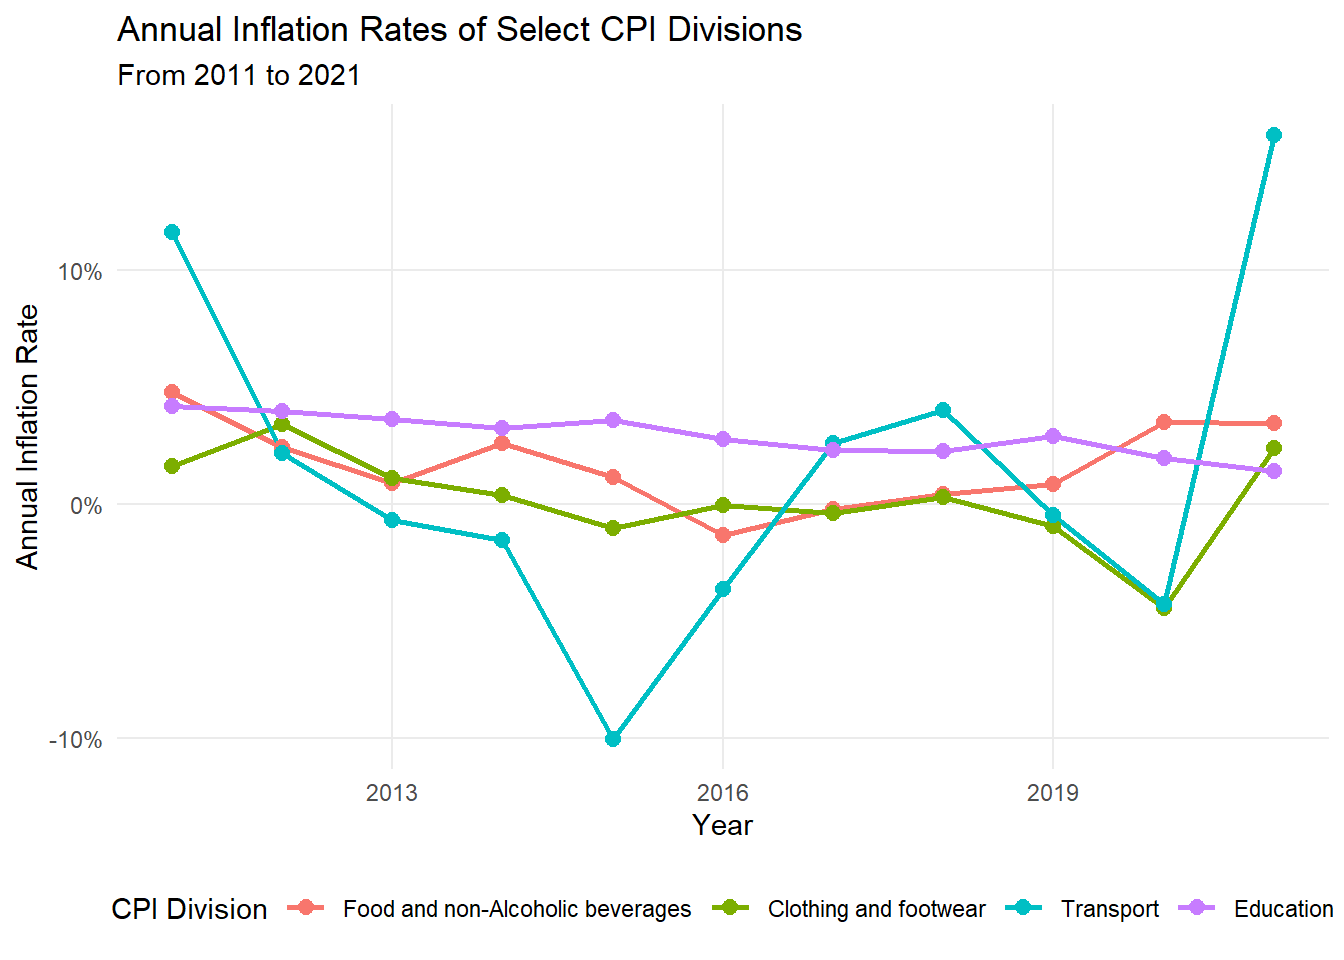
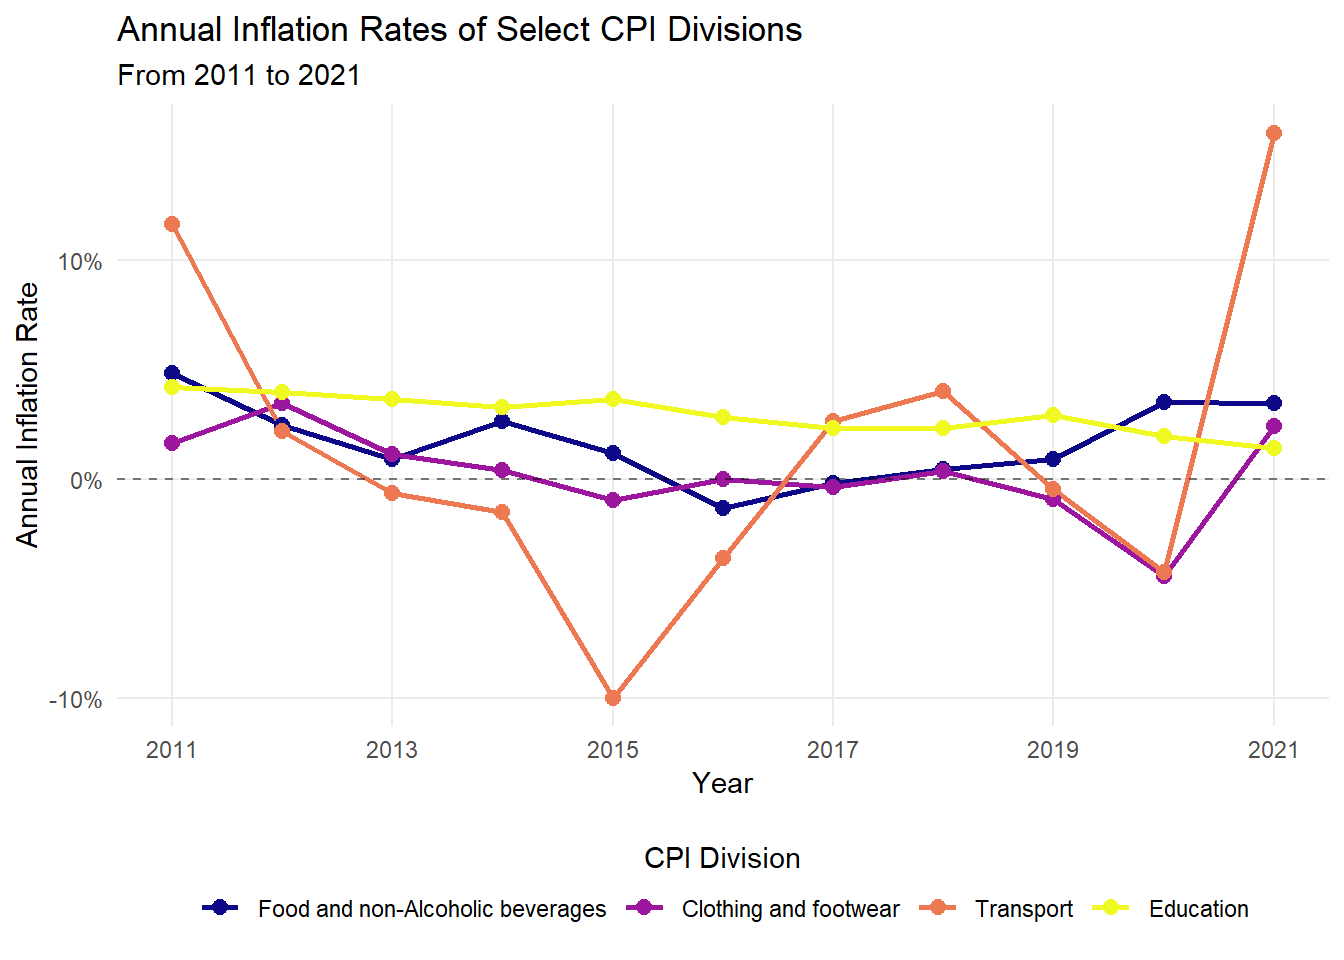
updated task 2

diff --git a/docs/index.html b/docs/index.html
@@ -756,32 +756,52 @@ The final merged dataset consists of <strong>132 observations</strong> across <s
 <div class="cell">
 <details class="code-fold">
 <summary>Code</summary>
-<div class="code-copy-outer-scaffold"><div class="sourceCode cell-code" id="cb14"><pre class="sourceCode r code-with-copy"><code class="sourceCode r"><span id="cb14-1"><a href="#cb14-1" aria-hidden="true" tabindex="-1"></a><span class="co">#|label: tabble-summary</span></span>
+<div class="code-copy-outer-scaffold"><div class="sourceCode cell-code" id="cb14"><pre class="sourceCode r code-with-copy"><code class="sourceCode r"><span id="cb14-1"><a href="#cb14-1" aria-hidden="true" tabindex="-1"></a><span class="co">#|label: rates-evolution</span></span>
 <span id="cb14-2"><a href="#cb14-2" aria-hidden="true" tabindex="-1"></a><span class="co">#| fig-cap: "Figure 2. Annual Inflation Rates Evolution"</span></span>
 <span id="cb14-3"><a href="#cb14-3" aria-hidden="true" tabindex="-1"></a><span class="co">#filtering divisions</span></span>
-<span id="cb14-4"><a href="#cb14-4" aria-hidden="true" tabindex="-1"></a>inflation_joined <span class="sc">|&gt;</span> <span class="fu">filter</span>(</span>
-<span id="cb14-5"><a href="#cb14-5" aria-hidden="true" tabindex="-1"></a>  cpi_division_id <span class="sc">%in%</span> <span class="fu">c</span>(<span class="dv">1</span>,<span class="dv">3</span>,<span class="dv">7</span>,<span class="dv">10</span>)</span>
-<span id="cb14-6"><a href="#cb14-6" aria-hidden="true" tabindex="-1"></a>) <span class="sc">|&gt;</span> </span>
-<span id="cb14-7"><a href="#cb14-7" aria-hidden="true" tabindex="-1"></a><span class="fu">mutate</span>(</span>
-<span id="cb14-8"><a href="#cb14-8" aria-hidden="true" tabindex="-1"></a>  <span class="at">inflation =</span> inflation<span class="sc">/</span><span class="dv">100</span></span>
-<span id="cb14-9"><a href="#cb14-9" aria-hidden="true" tabindex="-1"></a>)<span class="sc">|&gt;</span> </span>
-<span id="cb14-10"><a href="#cb14-10" aria-hidden="true" tabindex="-1"></a>  <span class="fu">ggplot</span>(<span class="fu">aes</span>(<span class="at">x =</span> year, <span class="at">y =</span> inflation, <span class="at">color =</span> description, <span class="at">group =</span> description)) <span class="sc">+</span></span>
-<span id="cb14-11"><a href="#cb14-11" aria-hidden="true" tabindex="-1"></a>  <span class="fu">geom_line</span>(<span class="at">linewidth =</span> <span class="dv">1</span>) <span class="sc">+</span></span>
-<span id="cb14-12"><a href="#cb14-12" aria-hidden="true" tabindex="-1"></a>  <span class="fu">geom_point</span>(<span class="at">size =</span> <span class="fl">2.5</span>) <span class="sc">+</span></span>
-<span id="cb14-13"><a href="#cb14-13" aria-hidden="true" tabindex="-1"></a>  <span class="fu">scale_y_continuous</span>(</span>
-<span id="cb14-14"><a href="#cb14-14" aria-hidden="true" tabindex="-1"></a>    <span class="at">labels =</span> scales<span class="sc">::</span>percent,</span>
-<span id="cb14-15"><a href="#cb14-15" aria-hidden="true" tabindex="-1"></a>    <span class="at">breaks =</span> <span class="fu">seq</span>(<span class="sc">-</span><span class="fl">0.1</span>, <span class="fl">0.1</span>, <span class="fl">0.1</span>)</span>
-<span id="cb14-16"><a href="#cb14-16" aria-hidden="true" tabindex="-1"></a>  ) <span class="sc">+</span></span>
-<span id="cb14-17"><a href="#cb14-17" aria-hidden="true" tabindex="-1"></a>  <span class="fu">labs</span>(</span>
-<span id="cb14-18"><a href="#cb14-18" aria-hidden="true" tabindex="-1"></a>    <span class="at">title =</span> <span class="st">"Annual Inflation Rates of Select CPI Divisions"</span>,</span>
-<span id="cb14-19"><a href="#cb14-19" aria-hidden="true" tabindex="-1"></a>    <span class="at">subtitle =</span> <span class="st">"From 2011 to 2021"</span>,</span>
-<span id="cb14-20"><a href="#cb14-20" aria-hidden="true" tabindex="-1"></a>    <span class="at">x =</span> <span class="st">"Year"</span>,</span>
-<span id="cb14-21"><a href="#cb14-21" aria-hidden="true" tabindex="-1"></a>    <span class="at">y =</span> <span class="st">"Annual Inflation Rate"</span>,</span>
-<span id="cb14-22"><a href="#cb14-22" aria-hidden="true" tabindex="-1"></a>    <span class="at">color =</span> <span class="st">"CPI Division"</span></span>
-<span id="cb14-23"><a href="#cb14-23" aria-hidden="true" tabindex="-1"></a>  ) <span class="sc">+</span></span>
-<span id="cb14-24"><a href="#cb14-24" aria-hidden="true" tabindex="-1"></a>  <span class="fu">theme_minimal</span>() <span class="sc">+</span></span>
-<span id="cb14-25"><a href="#cb14-25" aria-hidden="true" tabindex="-1"></a>  <span class="fu">theme</span>(<span class="at">panel.grid.minor =</span> <span class="fu">element_blank</span>()) <span class="sc">+</span></span>
-<span id="cb14-26"><a href="#cb14-26" aria-hidden="true" tabindex="-1"></a>  <span class="fu">theme</span>(<span class="at">legend.position =</span> <span class="st">"bottom"</span>)</span></code></pre></div><button title="Copy to Clipboard" class="code-copy-button"><i class="bi"></i></button></div>
+<span id="cb14-4"><a href="#cb14-4" aria-hidden="true" tabindex="-1"></a>inflation_joined <span class="sc">|&gt;</span> </span>
+<span id="cb14-5"><a href="#cb14-5" aria-hidden="true" tabindex="-1"></a>  <span class="fu">filter</span>(cpi_division_id <span class="sc">%in%</span> <span class="fu">c</span>(<span class="dv">1</span>,<span class="dv">3</span>,<span class="dv">7</span>,<span class="dv">10</span>)) <span class="sc">|&gt;</span> </span>
+<span id="cb14-6"><a href="#cb14-6" aria-hidden="true" tabindex="-1"></a>  <span class="fu">mutate</span>(<span class="at">inflation =</span> inflation<span class="sc">/</span><span class="dv">100</span>)<span class="sc">|&gt;</span> </span>
+<span id="cb14-7"><a href="#cb14-7" aria-hidden="true" tabindex="-1"></a>  <span class="fu">ggplot</span>(<span class="fu">aes</span>(<span class="at">x =</span> year, <span class="at">y =</span> inflation, </span>
+<span id="cb14-8"><a href="#cb14-8" aria-hidden="true" tabindex="-1"></a>             <span class="at">color =</span> description, </span>
+<span id="cb14-9"><a href="#cb14-9" aria-hidden="true" tabindex="-1"></a>             <span class="at">group =</span> description)) <span class="sc">+</span></span>
+<span id="cb14-10"><a href="#cb14-10" aria-hidden="true" tabindex="-1"></a>  <span class="fu">geom_line</span>(<span class="at">linewidth =</span> <span class="dv">1</span>) <span class="sc">+</span></span>
+<span id="cb14-11"><a href="#cb14-11" aria-hidden="true" tabindex="-1"></a>  <span class="fu">geom_point</span>(<span class="at">size =</span> <span class="fl">2.5</span>) <span class="sc">+</span></span>
+<span id="cb14-12"><a href="#cb14-12" aria-hidden="true" tabindex="-1"></a>  <span class="fu">geom_hline</span>(<span class="at">yintercept =</span> <span class="dv">0</span>, <span class="at">color =</span> <span class="st">"black"</span>, </span>
+<span id="cb14-13"><a href="#cb14-13" aria-hidden="true" tabindex="-1"></a>             <span class="at">linewidth =</span> <span class="fl">0.5</span>, <span class="at">linetype =</span> <span class="st">"dashed"</span>, </span>
+<span id="cb14-14"><a href="#cb14-14" aria-hidden="true" tabindex="-1"></a>             <span class="at">alpha =</span> <span class="fl">0.5</span>) <span class="sc">+</span></span>
+<span id="cb14-15"><a href="#cb14-15" aria-hidden="true" tabindex="-1"></a>  <span class="fu">scale_color_viridis_d</span>(<span class="at">option =</span> <span class="st">"plasma"</span>) <span class="sc">+</span></span>
+<span id="cb14-16"><a href="#cb14-16" aria-hidden="true" tabindex="-1"></a>  <span class="fu">scale_linetype_manual</span>(<span class="at">values =</span> <span class="fu">c</span>(<span class="st">"solid"</span>, <span class="st">"dashed"</span>, <span class="st">"dotted"</span>, <span class="st">"dotdash"</span>)) <span class="sc">+</span></span>
+<span id="cb14-17"><a href="#cb14-17" aria-hidden="true" tabindex="-1"></a>  <span class="fu">scale_y_continuous</span>(</span>
+<span id="cb14-18"><a href="#cb14-18" aria-hidden="true" tabindex="-1"></a>    <span class="at">labels =</span> scales<span class="sc">::</span>percent,</span>
+<span id="cb14-19"><a href="#cb14-19" aria-hidden="true" tabindex="-1"></a>    <span class="at">breaks =</span> <span class="fu">seq</span>(<span class="sc">-</span><span class="fl">0.1</span>, <span class="fl">0.1</span>, <span class="fl">0.1</span>)</span>
+<span id="cb14-20"><a href="#cb14-20" aria-hidden="true" tabindex="-1"></a>  ) <span class="sc">+</span></span>
+<span id="cb14-21"><a href="#cb14-21" aria-hidden="true" tabindex="-1"></a>  <span class="fu">scale_x_continuous</span>(<span class="at">breaks =</span> <span class="fu">seq</span>(<span class="dv">2011</span>, <span class="dv">2021</span>, <span class="dv">2</span>)) <span class="sc">+</span></span>
+<span id="cb14-22"><a href="#cb14-22" aria-hidden="true" tabindex="-1"></a>  <span class="fu">labs</span>(</span>
+<span id="cb14-23"><a href="#cb14-23" aria-hidden="true" tabindex="-1"></a>    <span class="at">title =</span> <span class="st">"Annual Inflation Rates of Select CPI Divisions"</span>,</span>
+<span id="cb14-24"><a href="#cb14-24" aria-hidden="true" tabindex="-1"></a>    <span class="at">subtitle =</span> <span class="st">"From 2011 to 2021"</span>,</span>
+<span id="cb14-25"><a href="#cb14-25" aria-hidden="true" tabindex="-1"></a>    <span class="at">x =</span> <span class="st">"Year"</span>,</span>
+<span id="cb14-26"><a href="#cb14-26" aria-hidden="true" tabindex="-1"></a>    <span class="at">y =</span> <span class="st">"Annual Inflation Rate"</span>,</span>
+<span id="cb14-27"><a href="#cb14-27" aria-hidden="true" tabindex="-1"></a>    <span class="at">color =</span> <span class="st">"CPI Division"</span>,</span>
+<span id="cb14-28"><a href="#cb14-28" aria-hidden="true" tabindex="-1"></a>    <span class="at">linetype =</span> <span class="st">"CPI Division"</span></span>
+<span id="cb14-29"><a href="#cb14-29" aria-hidden="true" tabindex="-1"></a>  ) <span class="sc">+</span></span>
+<span id="cb14-30"><a href="#cb14-30" aria-hidden="true" tabindex="-1"></a>  <span class="fu">theme_minimal</span>() <span class="sc">+</span></span>
+<span id="cb14-31"><a href="#cb14-31" aria-hidden="true" tabindex="-1"></a>  <span class="fu">theme</span>(</span>
+<span id="cb14-32"><a href="#cb14-32" aria-hidden="true" tabindex="-1"></a>    <span class="at">legend.position =</span> <span class="st">"bottom"</span>,</span>
+<span id="cb14-33"><a href="#cb14-33" aria-hidden="true" tabindex="-1"></a>    <span class="at">legend.box =</span> <span class="st">"vertical"</span>,</span>
+<span id="cb14-34"><a href="#cb14-34" aria-hidden="true" tabindex="-1"></a>    <span class="at">legend.title =</span> <span class="fu">element_text</span>(<span class="at">hjust =</span> <span class="fl">0.5</span>),</span>
+<span id="cb14-35"><a href="#cb14-35" aria-hidden="true" tabindex="-1"></a>    <span class="at">panel.grid.minor =</span> <span class="fu">element_blank</span>()</span>
+<span id="cb14-36"><a href="#cb14-36" aria-hidden="true" tabindex="-1"></a>  ) <span class="sc">+</span></span>
+<span id="cb14-37"><a href="#cb14-37" aria-hidden="true" tabindex="-1"></a>  <span class="fu">guides</span>(</span>
+<span id="cb14-38"><a href="#cb14-38" aria-hidden="true" tabindex="-1"></a>    <span class="at">color =</span> <span class="fu">guide_legend</span>(</span>
+<span id="cb14-39"><a href="#cb14-39" aria-hidden="true" tabindex="-1"></a>      <span class="at">title.position =</span> <span class="st">"top"</span>,</span>
+<span id="cb14-40"><a href="#cb14-40" aria-hidden="true" tabindex="-1"></a>      <span class="at">title.hjust =</span> <span class="fl">0.5</span></span>
+<span id="cb14-41"><a href="#cb14-41" aria-hidden="true" tabindex="-1"></a>    ),</span>
+<span id="cb14-42"><a href="#cb14-42" aria-hidden="true" tabindex="-1"></a>    <span class="at">linetype =</span> <span class="fu">guide_legend</span>(</span>
+<span id="cb14-43"><a href="#cb14-43" aria-hidden="true" tabindex="-1"></a>      <span class="at">title.position =</span> <span class="st">"top"</span>, </span>
+<span id="cb14-44"><a href="#cb14-44" aria-hidden="true" tabindex="-1"></a>      <span class="at">title.hjust =</span> <span class="fl">0.5</span></span>
+<span id="cb14-45"><a href="#cb14-45" aria-hidden="true" tabindex="-1"></a>    )</span>
+<span id="cb14-46"><a href="#cb14-46" aria-hidden="true" tabindex="-1"></a>  )</span></code></pre></div><button title="Copy to Clipboard" class="code-copy-button"><i class="bi"></i></button></div>
 </details>
 <div class="cell-output-display">
 <div>
@@ -791,6 +811,14 @@ The final merged dataset consists of <strong>132 observations</strong> across <s
 </div>
 </div>
 </div>
+<p><strong>Analysis:</strong></p>
+<p>The visual analysis of selected CPI divisions (1, 3, 7, and 10) illustrates how different sectors respond to economic cycles:</p>
+<ul>
+<li><p><strong>The 2015 Energy Shock:</strong> The most prominent feature of the plot is the sharp decline in the <em>Transport</em> division (Division 7), which hit a historical low of <strong>-10.02%</strong> in 2015. This dramatic drop visually confirms the sector’s extreme sensitivity to external shocks, likely tied to global energy price collapses during that year.</p></li>
+<li><p><strong>Sector Divergence:</strong> While <em>Transport</em> shows high volatility, the other selected divisions—such as <em>Food and non-alcoholic beverages</em> (Division 1) and <em>Clothing and footwear</em> (Division 3)—exhibit much smoother trajectories with less drastic annual swings.</p></li>
+<li><p><strong>Convergent Recovery:</strong> Toward the end of the period, there is a clear upward trend across multiple lines. The <em>Transport</em> sector, in particular, shows a steep recovery from its <strong>2020 pandemic low</strong> (-4.45%) to its <strong>peak in</strong> <strong>2021</strong>.</p></li>
+<li><p><strong>Consistent Mid-Period Stability:</strong> Between 2016 and 2019, most selected divisions showed a period of relative stabilization, with inflation rates hovering closer to the overall mean of <strong>1.65%</strong> before the disruptions of the final two years.</p></li>
+</ul>
 </section>
 <section id="task-3" class="level2">
 <h2 class="anchored" data-anchor-id="task-3">Task 3</h2>
